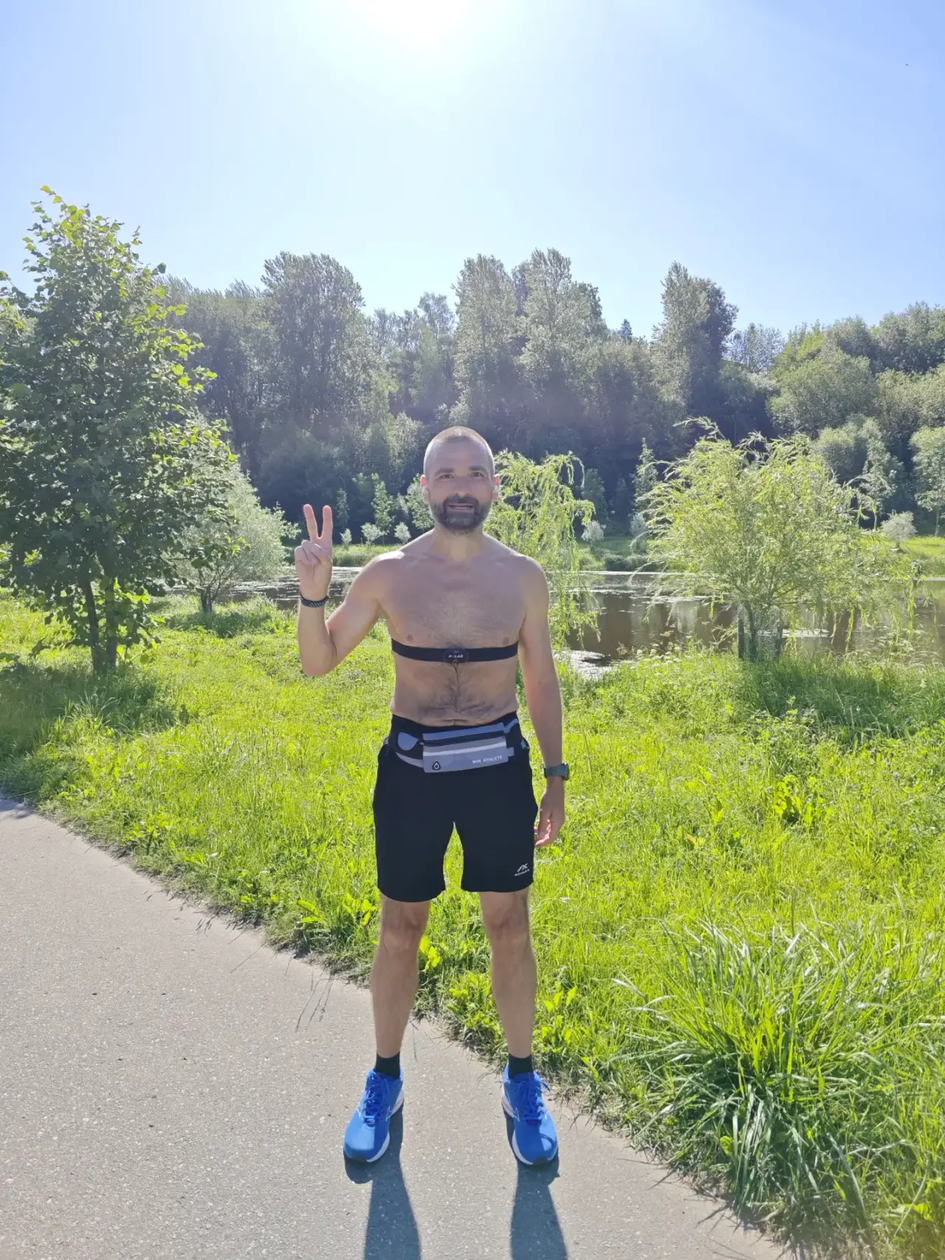
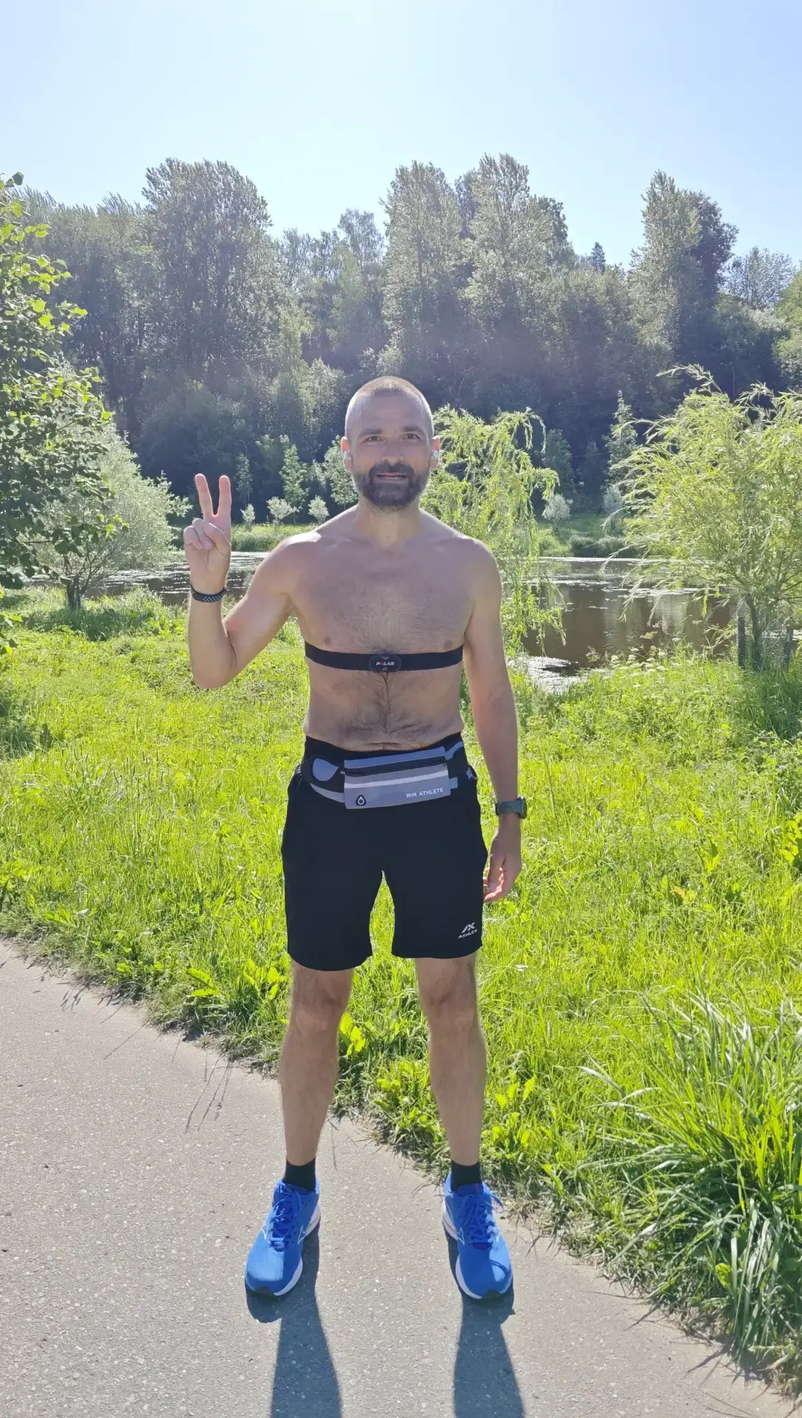
замена фото

diff --git a/public/index.html b/public/index.html
@@ -140,7 +140,7 @@
                             Савостьянов
                         </h1>
                         <p>
-                            Доктор, тренер, биохакер
+                            доктор, тренер, биохакер
                         </p>
                         <a class="main-btn" href="#pricing">Онлайн-Диагностика</a>
                     </div> <!-- header content right -->
